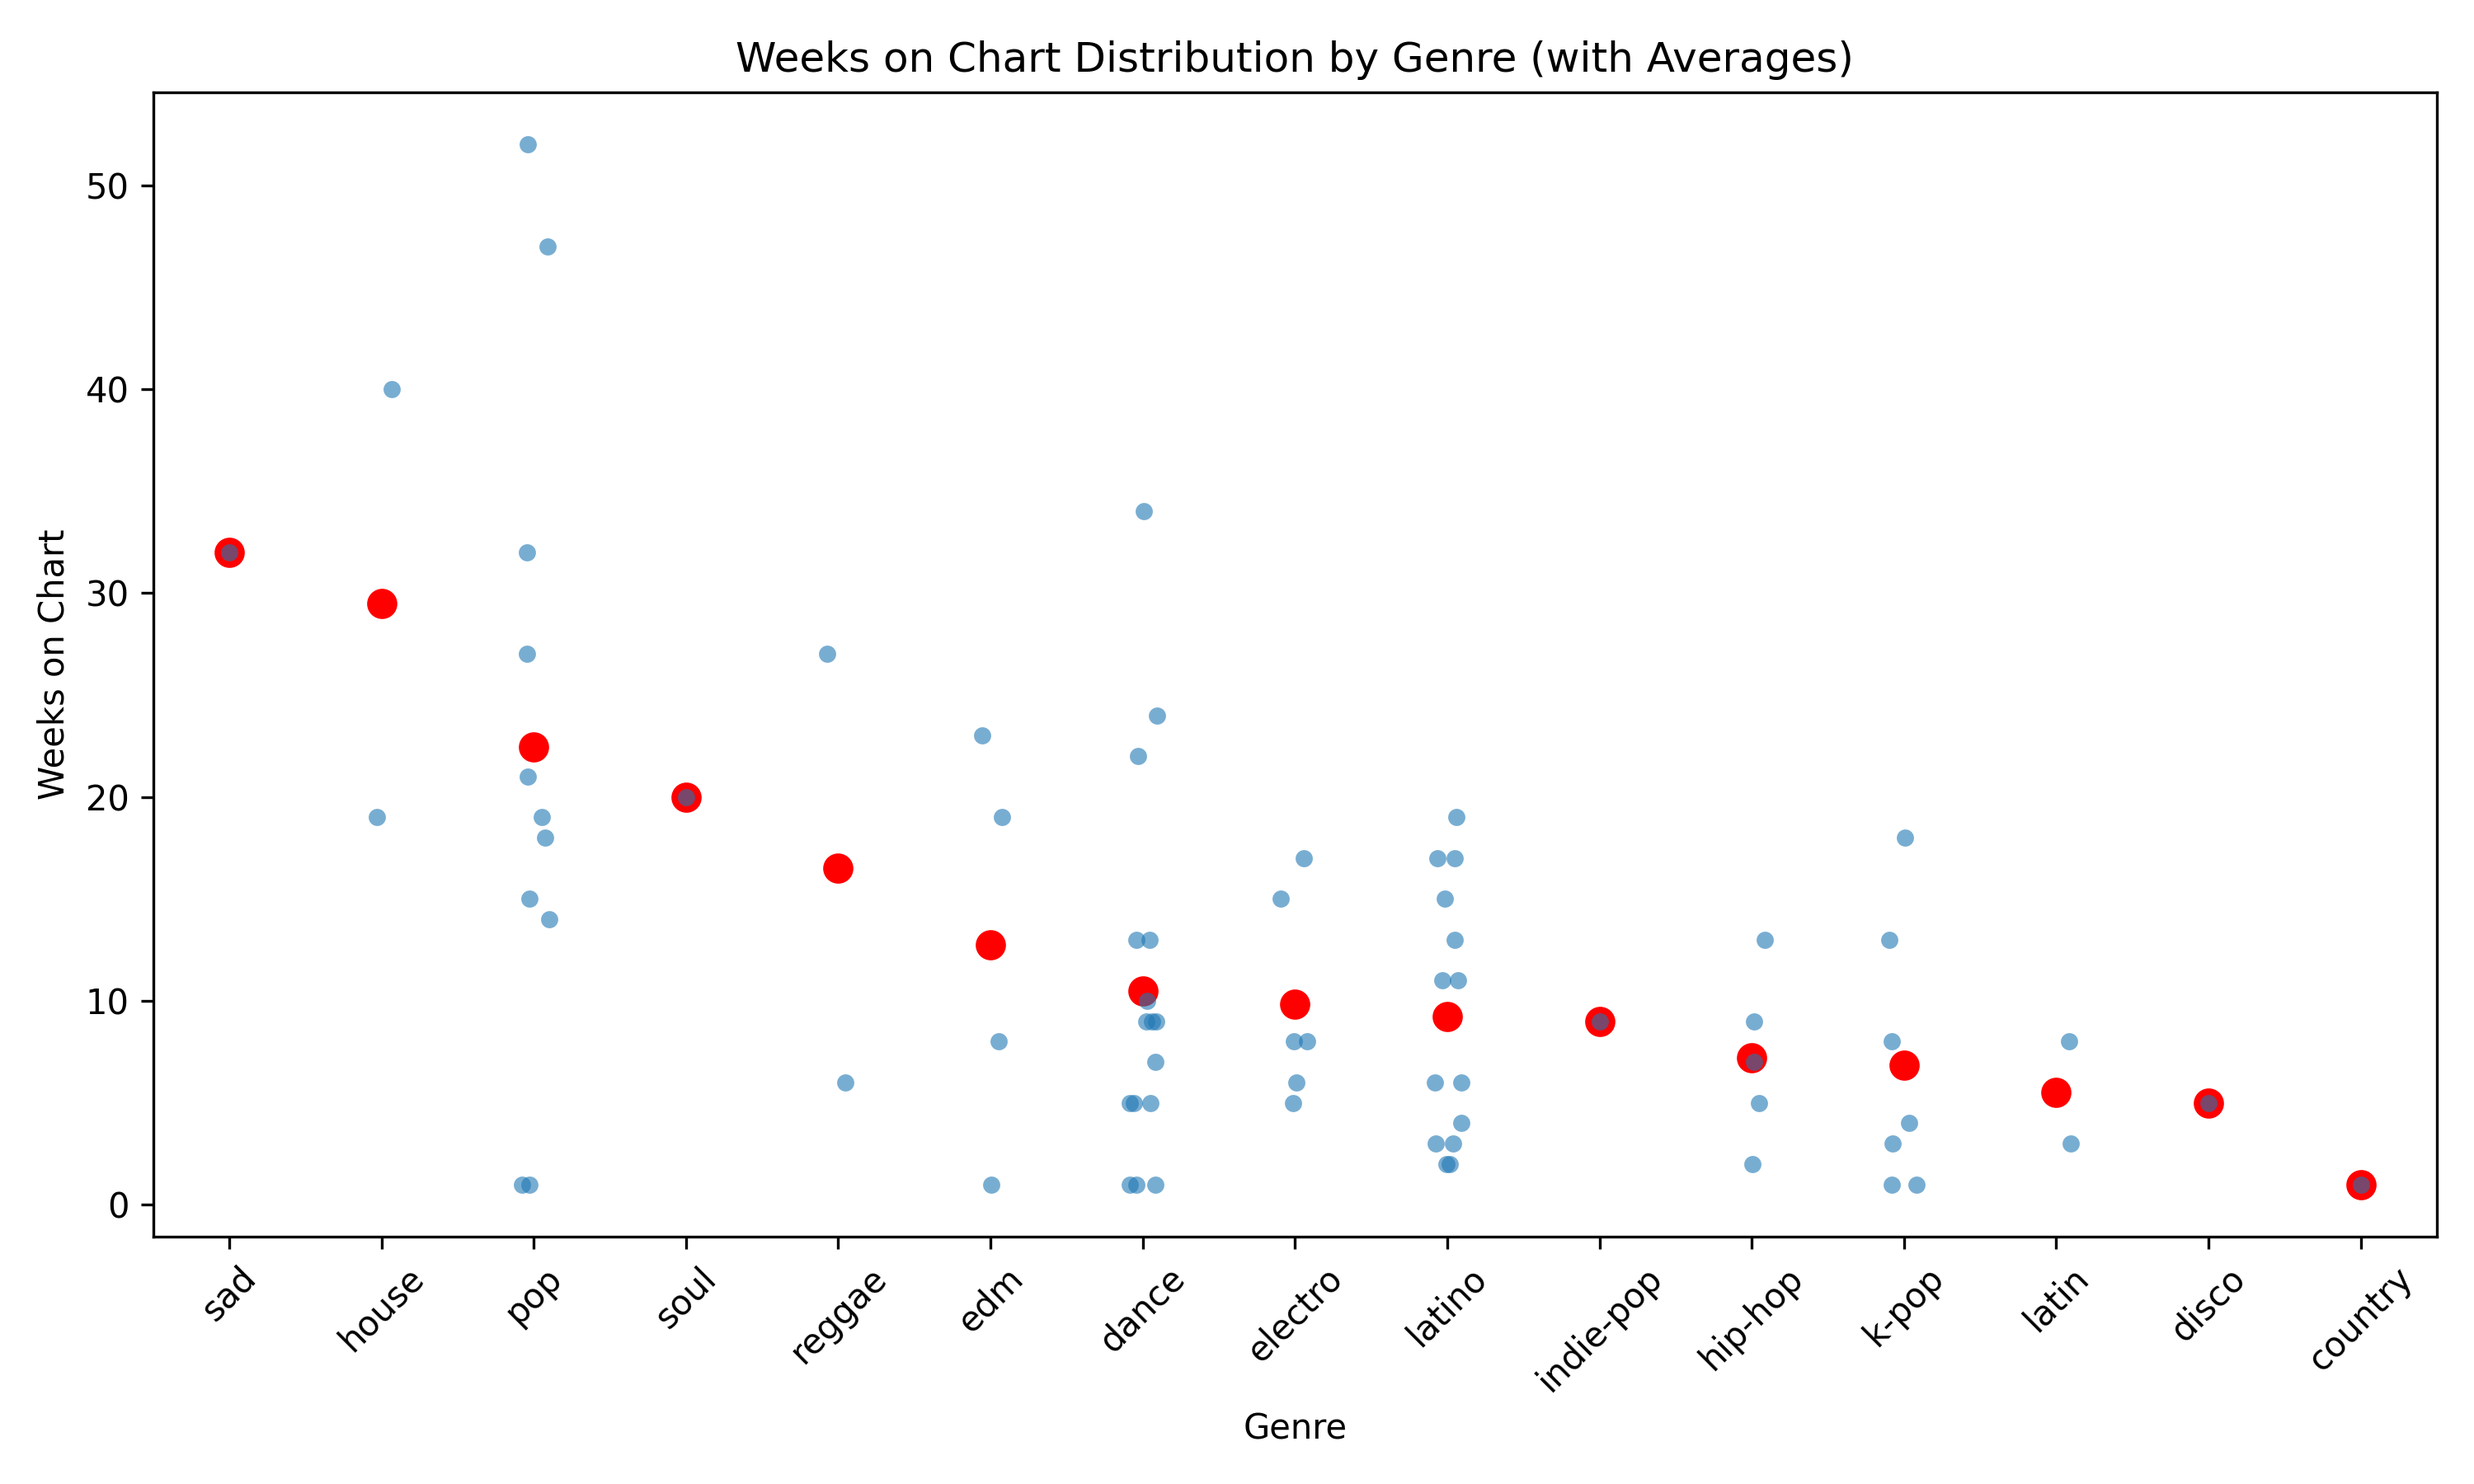
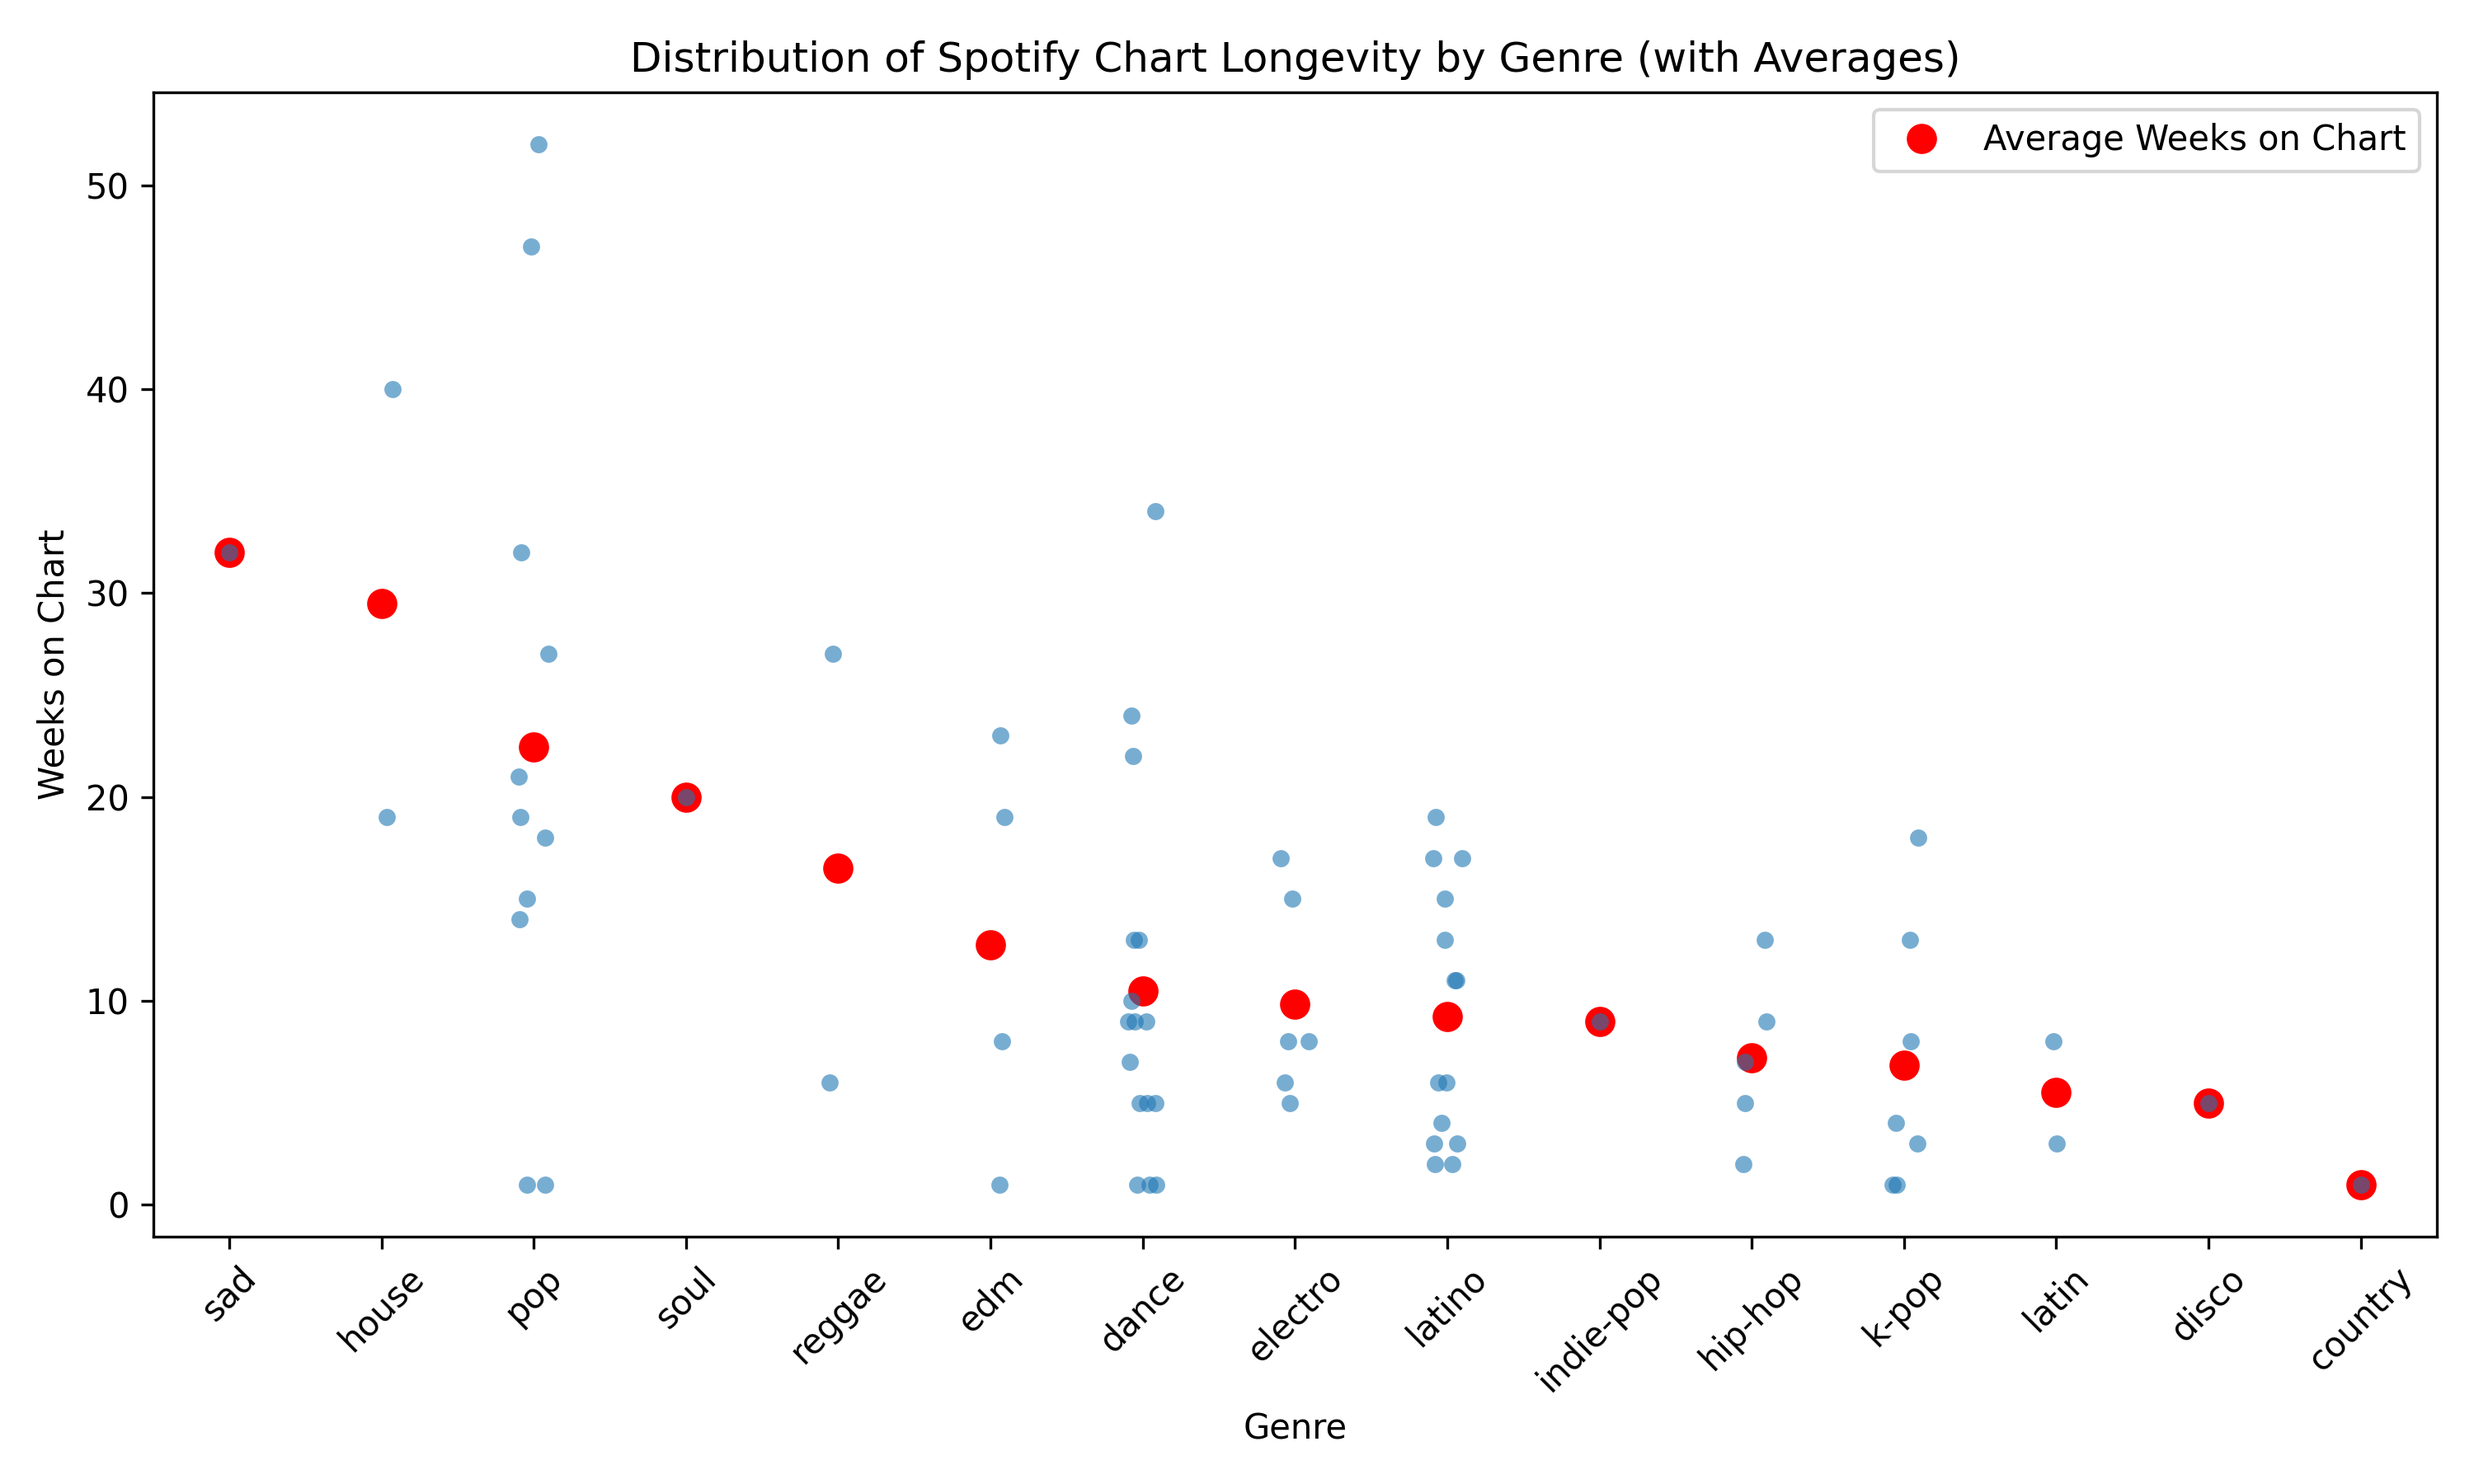
removed boxplots and updated visualization title and legend

diff --git a/scripts/mongodb_visualizations.py b/scripts/mongodb_visualizations.py
@@ -1,8 +1,6 @@
 # Analysis script for MongoDB data (step 4 of the Phase 4 instructions)
 
 # Import necessary libraries
-from turtle import lt
-
 import pymongo
 import pandas as pd
 import matplotlib.pyplot as plt
@@ -22,171 +20,147 @@ else:
     client = pymongo.MongoClient(connection_string)
     db = client[CWL]
 
-    # ----------------------------------------------------------
-    # Research question 1: How does genre affect the average number
-    # of weeks a track remains on the Spotify Top 200 chart?
-    # ----------------------------------------------------------
+# ----------------------------------------------------------
+# Research question 1: How does genre affect the average number
+# of weeks a track remains on the Spotify Top 200 chart?
+# ----------------------------------------------------------
 
-    pipeline_visualization1 = [
-        # Only consider songs with chart history and genre (similar to the WHERE clause in SQL)
-        {"$match": {
-            "chart_history": {"$exists": True},
-            "genre": {"$ne": None}
-        }},
-        # Project the genre and calculate weeks on chart 
-        # (replaces the SELECT + calculation of weeks on chart in SQL)
-        {"$project": {
-            "genre": 1,
-            "weeks_on_chart": {"$size": "$chart_history"}
-        }}
-    ]
+pipeline_visualization1 = [
+    # Only consider songs with chart history and genre (similar to the WHERE clause in SQL)
+    {"$match": {
+        "chart_history": {"$exists": True},
+        "genre": {"$ne": None}
+    }},
+    # Project the genre and calculate weeks on chart 
+    # (replaces the SELECT + calculation of weeks on chart in SQL)
+    {"$project": {
+        "genre": 1,
+        "weeks_on_chart": {"$size": "$chart_history"}
+    }}
+]
 
-    # Execute the aggregation pipeline and convert results to a list
-    result1 = list(db["song"].aggregate(pipeline_visualization1))
-    
-    # Save results to a DataFrame and CSV
-    df1 = pd.DataFrame(result1)
-    df1 = df1[["genre", "weeks_on_chart"]]
-    df1.to_csv("results/tables/mongo_genre_weeks_on_chart.csv", index=False)
+# Execute the aggregation pipeline and convert results to a list
+result1 = list(db["song"].aggregate(pipeline_visualization1))
 
-    # Determine genre order based on average weeks on chart for better visualization
-    genre_order = (
-    df1.groupby("genre")["weeks_on_chart"]
-    .mean()
-    .sort_values(ascending=False)
-    .index)
+# Save results to a DataFrame and CSV
+df1 = pd.DataFrame(result1)
+df1 = df1[["genre", "weeks_on_chart"]]
+df1.to_csv("results/tables/mongo_genre_weeks_on_chart.csv", index=False)
 
-    # Convert genre to ordered categorical
-    df1["genre"] = pd.Categorical(df1["genre"], categories=genre_order, ordered=True)
+# Determine genre order based on average weeks on chart for better visualization
+genre_order = (
+df1.groupby("genre")["weeks_on_chart"]
+.mean()
+.sort_values(ascending=False)
+.index)
 
-    # Boxplot of weeks on chart by genre
-    plt.figure()
-    df1.boxplot(column="weeks_on_chart", by="genre", rot=45)
-    plt.title("Distribution of Weeks on Chart by Genre")
-    plt.suptitle("")
-    plt.xlabel("Genre")
-    plt.ylabel("Weeks on Chart")
-    plt.tight_layout()
+# Convert genre to ordered categorical
+df1["genre"] = pd.Categorical(df1["genre"], categories=genre_order, ordered=True)
 
-    # Save figure
-    plt.savefig("results/figures/mongo_genre_boxplot.png", dpi=300)
-    # Show figure
-    plt.show()
+# Strip plot of weeks on chart by genre
+plt.figure()
 
-    # Strip plot of weeks on chart by genre
-    plt.figure()
+# Create strip plot
+plt.figure(figsize=(10, 6))
+sns.stripplot(
+    data=df1,
+    x="genre",
+    y="weeks_on_chart",
+    order=genre_order,
+    jitter=True,
+    alpha=0.6)
 
-    # Create strip plot
-    plt.figure(figsize=(10, 6))
-    sns.stripplot(
-        data=df1,
-        x="genre",
-        y="weeks_on_chart",
-        order=genre_order,
-        jitter=True,
-        alpha=0.6)
-
-    # Show average weeks on chart for each genre using a point plot (without error bars)
-    sns.pointplot(
-        data=df1,
-        x="genre",
-        y="weeks_on_chart",
-        order=genre_order,
-        color="red",
-        markers="o",
-        linestyles="",
-        errorbar=None 
+# Show average weeks on chart for each genre using a point plot (without error bars)
+sns.pointplot(
+    data=df1,
+    x="genre",
+    y="weeks_on_chart",
+    order=genre_order,
+    color="red",
+    markers="o",
+    linestyles="",
+    errorbar=None,
+    label="Average Weeks on Chart"
 )
-    # Customize plot and labels
-    plt.xticks(rotation=45)
-    plt.xlabel("Genre")
-    plt.ylabel("Weeks on Chart")
-    plt.title("Weeks on Chart Distribution by Genre (with Averages)")
-    plt.tight_layout()
 
-    # Save figure
-    plt.savefig("results/figures/mongo_genre_stripplot.png", dpi=300)
-    # Show figure
-    plt.show()
+# Customize plot and labels
+plt.xticks(rotation=45)
+plt.xlabel("Genre")
+plt.ylabel("Weeks on Chart")
+plt.title("Distribution of Spotify Chart Longevity by Genre (with Averages)")
+plt.legend(loc="upper right")
+plt.tight_layout()
 
-    # ----------------------------------------------------------
-    # Research question 2: Do songs that go viral on TikTok remain
-    # on the Spotify Top 200 chart for a longer duration compared 
-    # to non-viral songs?
-    # ----------------------------------------------------------
+# Save figure
+plt.savefig("results/figures/mongo_genre_stripplot.png", dpi=300)
+# Show figure
+plt.show()
 
-    pipeline_visualization2 = [
-        # Only consider songs with chart history (similar to the WHERE clause in SQL)
-        {"$match": {"chart_history": {"$exists": True}}},
-        # Project weeks on chart and determine if the song is TikTok viral
-        # (replaces the SELECT and CASE statement in SQL)
-        {"$project": {
-            "_id": 0,
-            "weeks_on_chart": {"$size": "$chart_history"},
-            "is_viral": {
-                "$cond": {
-                    "if": {"$gte": [{"$ifNull": ["$tiktok.popularity", 0]}, 70]},
-                    "then": "TikTok Viral",
-                    "else": "Non Viral"
-                }
+# ----------------------------------------------------------
+# Research question 2: Do songs that go viral on TikTok remain
+# on the Spotify Top 200 chart for a longer duration compared 
+# to non-viral songs?
+# ----------------------------------------------------------
+
+pipeline_visualization2 = [
+    # Only consider songs with chart history (similar to the WHERE clause in SQL)
+    {"$match": {"chart_history": {"$exists": True}}},
+    # Project weeks on chart and determine if the song is TikTok viral
+    # (replaces the SELECT and CASE statement in SQL)
+    {"$project": {
+        "_id": 0,
+        "weeks_on_chart": {"$size": "$chart_history"},
+        "is_viral": {
+            "$cond": {
+                "if": {"$gte": [{"$ifNull": ["$tiktok.popularity", 0]}, 70]},
+                "then": "TikTok Viral",
+                "else": "Non Viral"
             }
-        }}
-    ]
+        }
+    }}
+]
 
-    # Execute the aggregation pipeline and convert results to a list
-    result2 = list(db["song"].aggregate(pipeline_visualization2))
-    
-    # Save results to a DataFrame and CSV
-    df2 = pd.DataFrame(result2)
-    df2.to_csv("results/tables/mongo_viral_weeks_on_chart.csv", index=False)
+# Execute the aggregation pipeline and convert results to a list
+result2 = list(db["song"].aggregate(pipeline_visualization2))
 
-    # Boxplot of weeks on chart by genre
-    plt.figure()
-    df2.boxplot(column="weeks_on_chart", by="is_viral")
-    plt.title("Weeks on Chart: Viral vs Non-Viral Songs")
-    plt.suptitle("")
-    plt.ylabel("Weeks on Chart")
-    plt.tight_layout()
+# Save results to a DataFrame and CSV
+df2 = pd.DataFrame(result2)
+df2.to_csv("results/tables/mongo_viral_weeks_on_chart.csv", index=False)
 
-    # Save figure
-    plt.savefig("results/figures/mongo_tiktok_viral_boxplot.png", dpi=300)
-    # Show figure
-    plt.show()
+# Define colours for the histogram so that it is consistent with the average lines we will add to the plot later
+palette = {
+"TikTok Viral": "orange",
+"Non Viral": "blue"}
 
-    # Define colours for the histogram
-    palette = {
-    "TikTok Viral": "orange",
-    "Non Viral": "blue"}
+# Histogram of weeks on chart by viral status
+plt.figure()
+sns.histplot(
+    data=df2,
+    x="weeks_on_chart",
+    hue="is_viral",
+    bins=20,
+    alpha=0.5,
+    multiple="layer",
+    palette=palette
+)
 
-    # Histogram of weeks on chart by viral status
-    plt.figure()
-    sns.histplot(
-        data=df2,
-        x="weeks_on_chart",
-        hue="is_viral",
-        bins=20,
-        alpha=0.5,
-        multiple="layer",
-        palette=palette
-    )
-    
-    # Add vertical lines for the average weeks on chart for each group
-    means = df2.groupby("is_viral")["weeks_on_chart"].mean()
+# Add vertical lines for the average weeks on chart for each group
+means = df2.groupby("is_viral")["weeks_on_chart"].mean()
 
-    plt.axvline(means["TikTok Viral"], linestyle='dashed', linewidth=2, color="orange", label="Viral Avg")
-    plt.axvline(means["Non Viral"], linestyle='dashed', linewidth=2, color="blue", label="Non-Viral Avg")
+plt.axvline(means["TikTok Viral"], linestyle='dashed', linewidth=2, color="orange", label="Viral Avg")
+plt.axvline(means["Non Viral"], linestyle='dashed', linewidth=2, color="blue", label="Non-Viral Avg")
 
-    # Customize plot and labels
-    plt.xlabel("Weeks on Chart")
-    plt.ylabel("Frequency")
-    plt.title("Distribution of Chart Longevity: Viral vs Non-Viral Songs")
-    plt.legend()
-    plt.tight_layout()
+# Customize plot and labels
+plt.xlabel("Weeks on Chart")
+plt.ylabel("Frequency")
+plt.title("Distribution of Spotify Chart Longevity: TikTok Viral vs Non-Viral Songs")
+plt.legend()
+plt.tight_layout()
 
-    # Save figure
-    plt.savefig("results/figures/mongo_tiktok_histogram.png", dpi=300)
-    # Show figure
-    plt.show()
+# Save figure
+plt.savefig("results/figures/mongo_tiktok_histogram.png", dpi=300)
+# Show figure
+plt.show()
 
-    client.close()
-    print("\nDone!")
+client.close()
+print("\nDone!")
